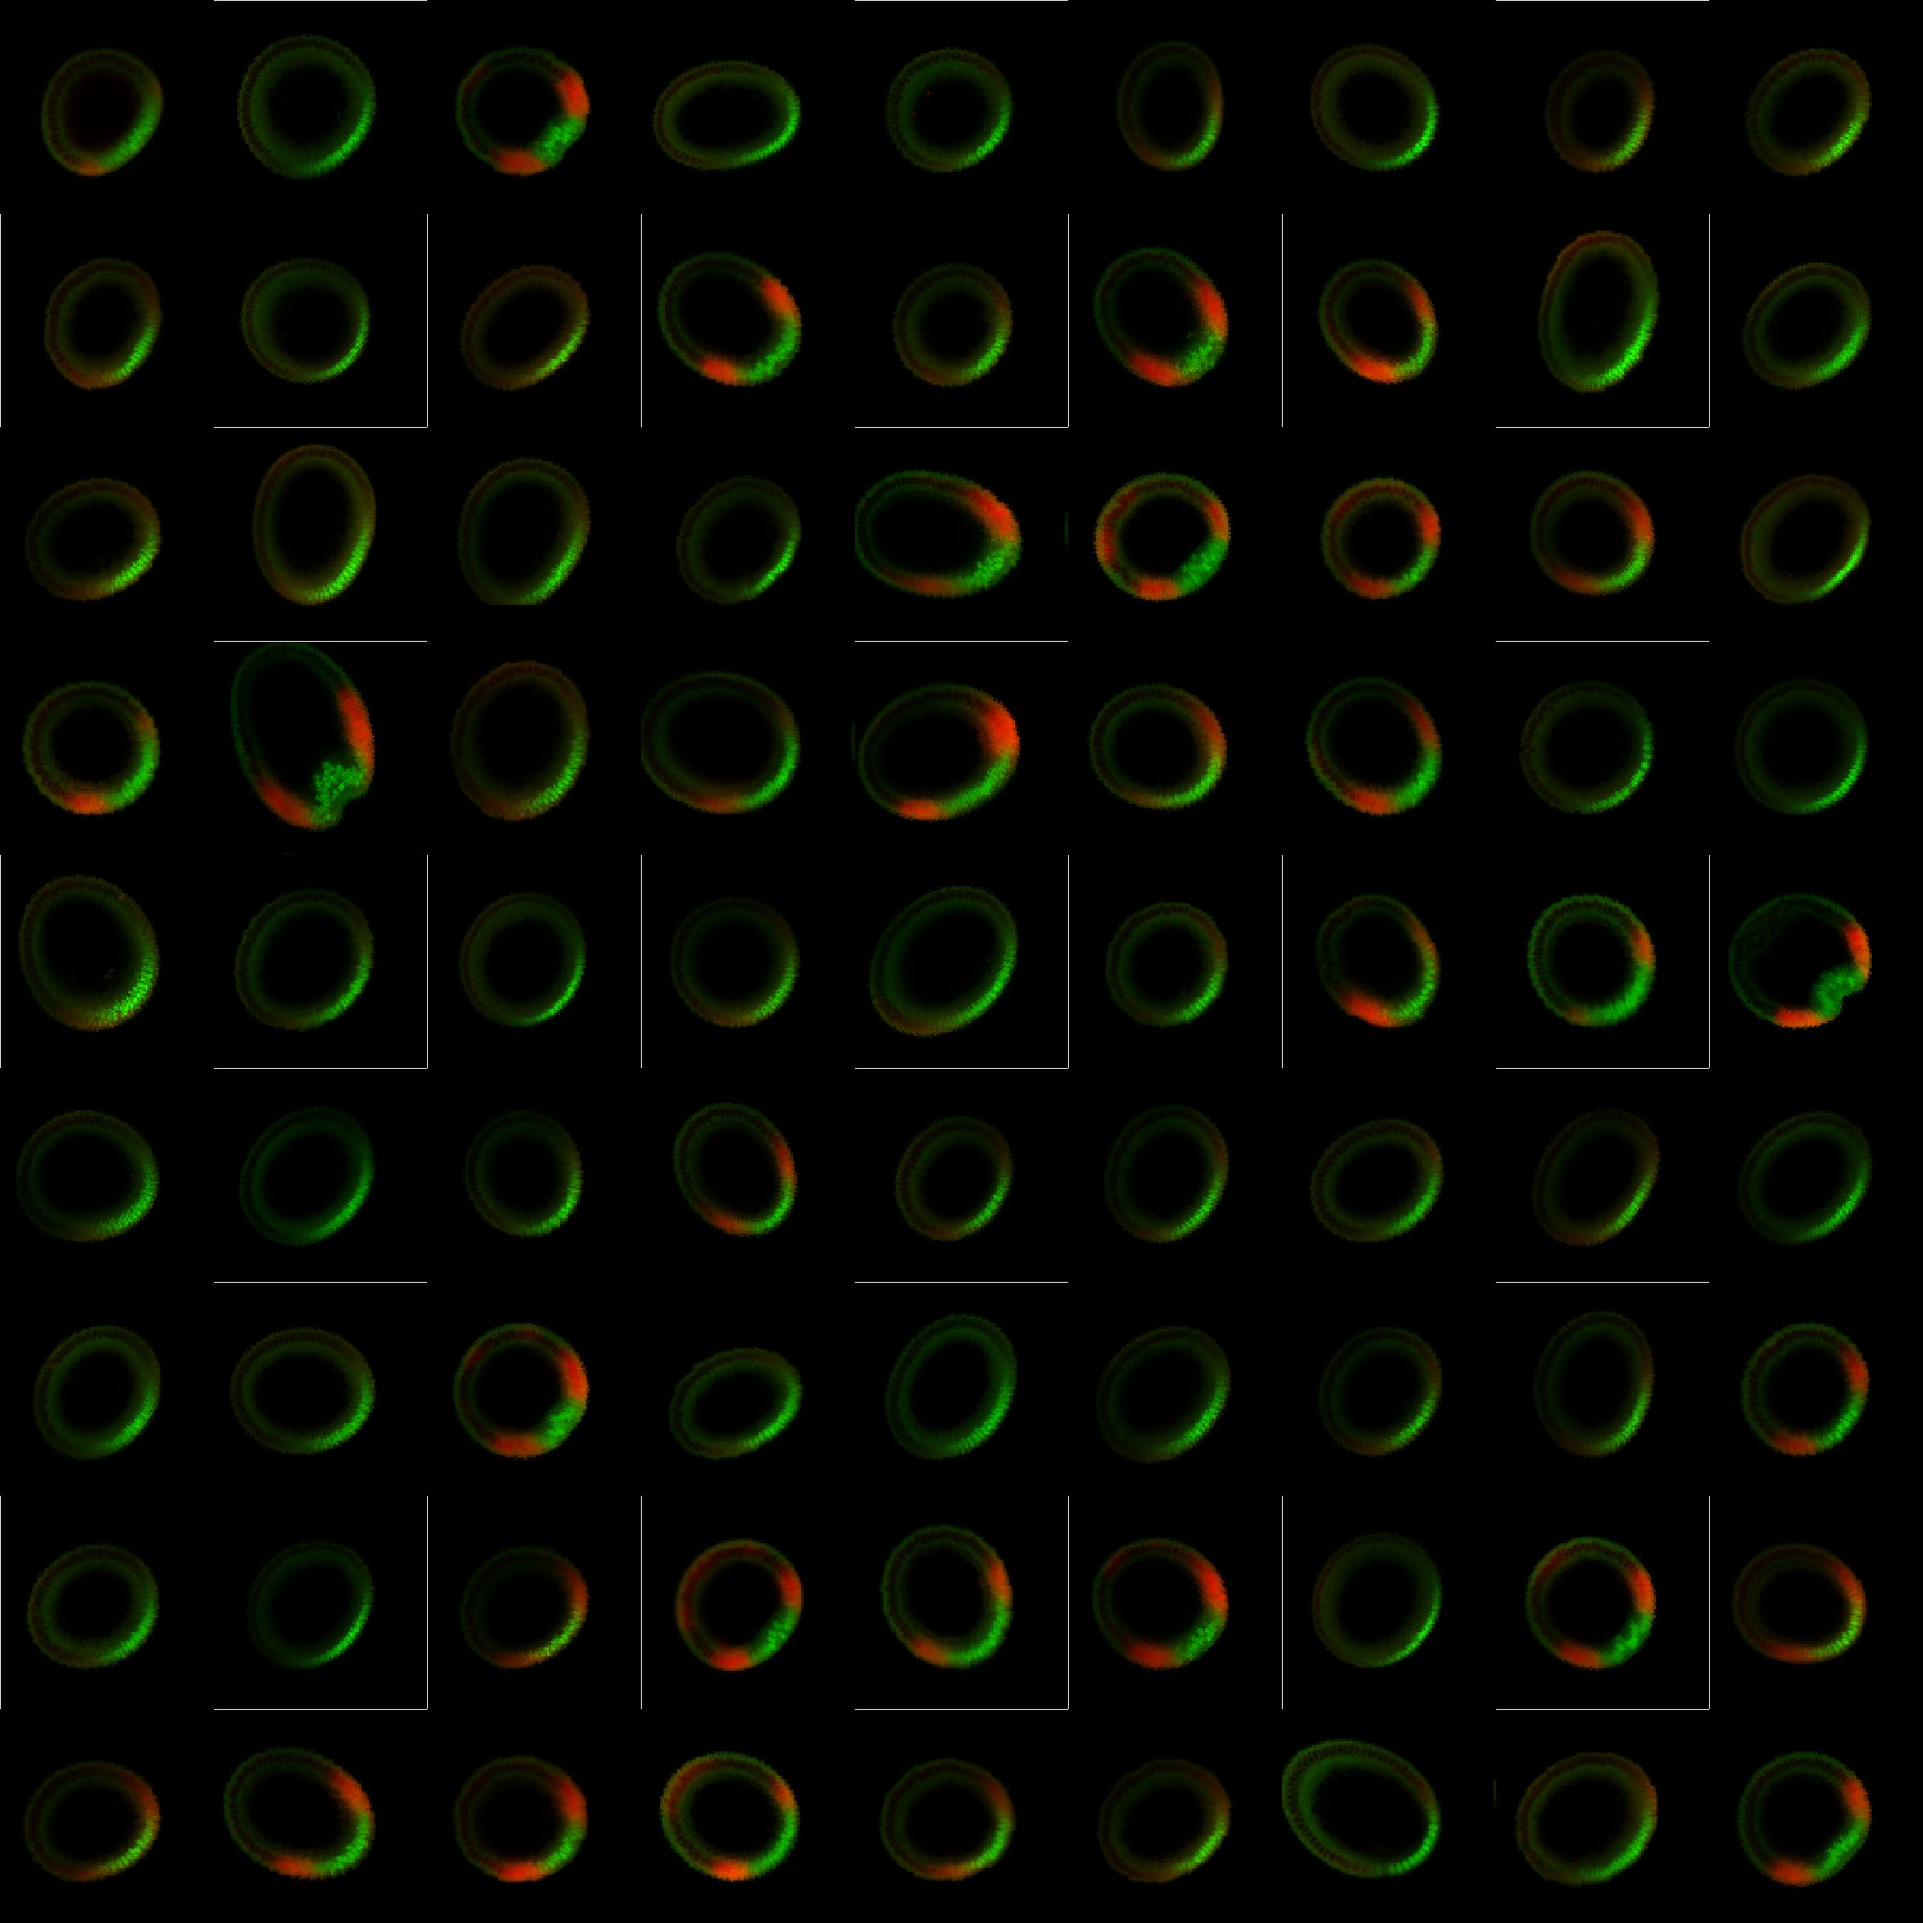
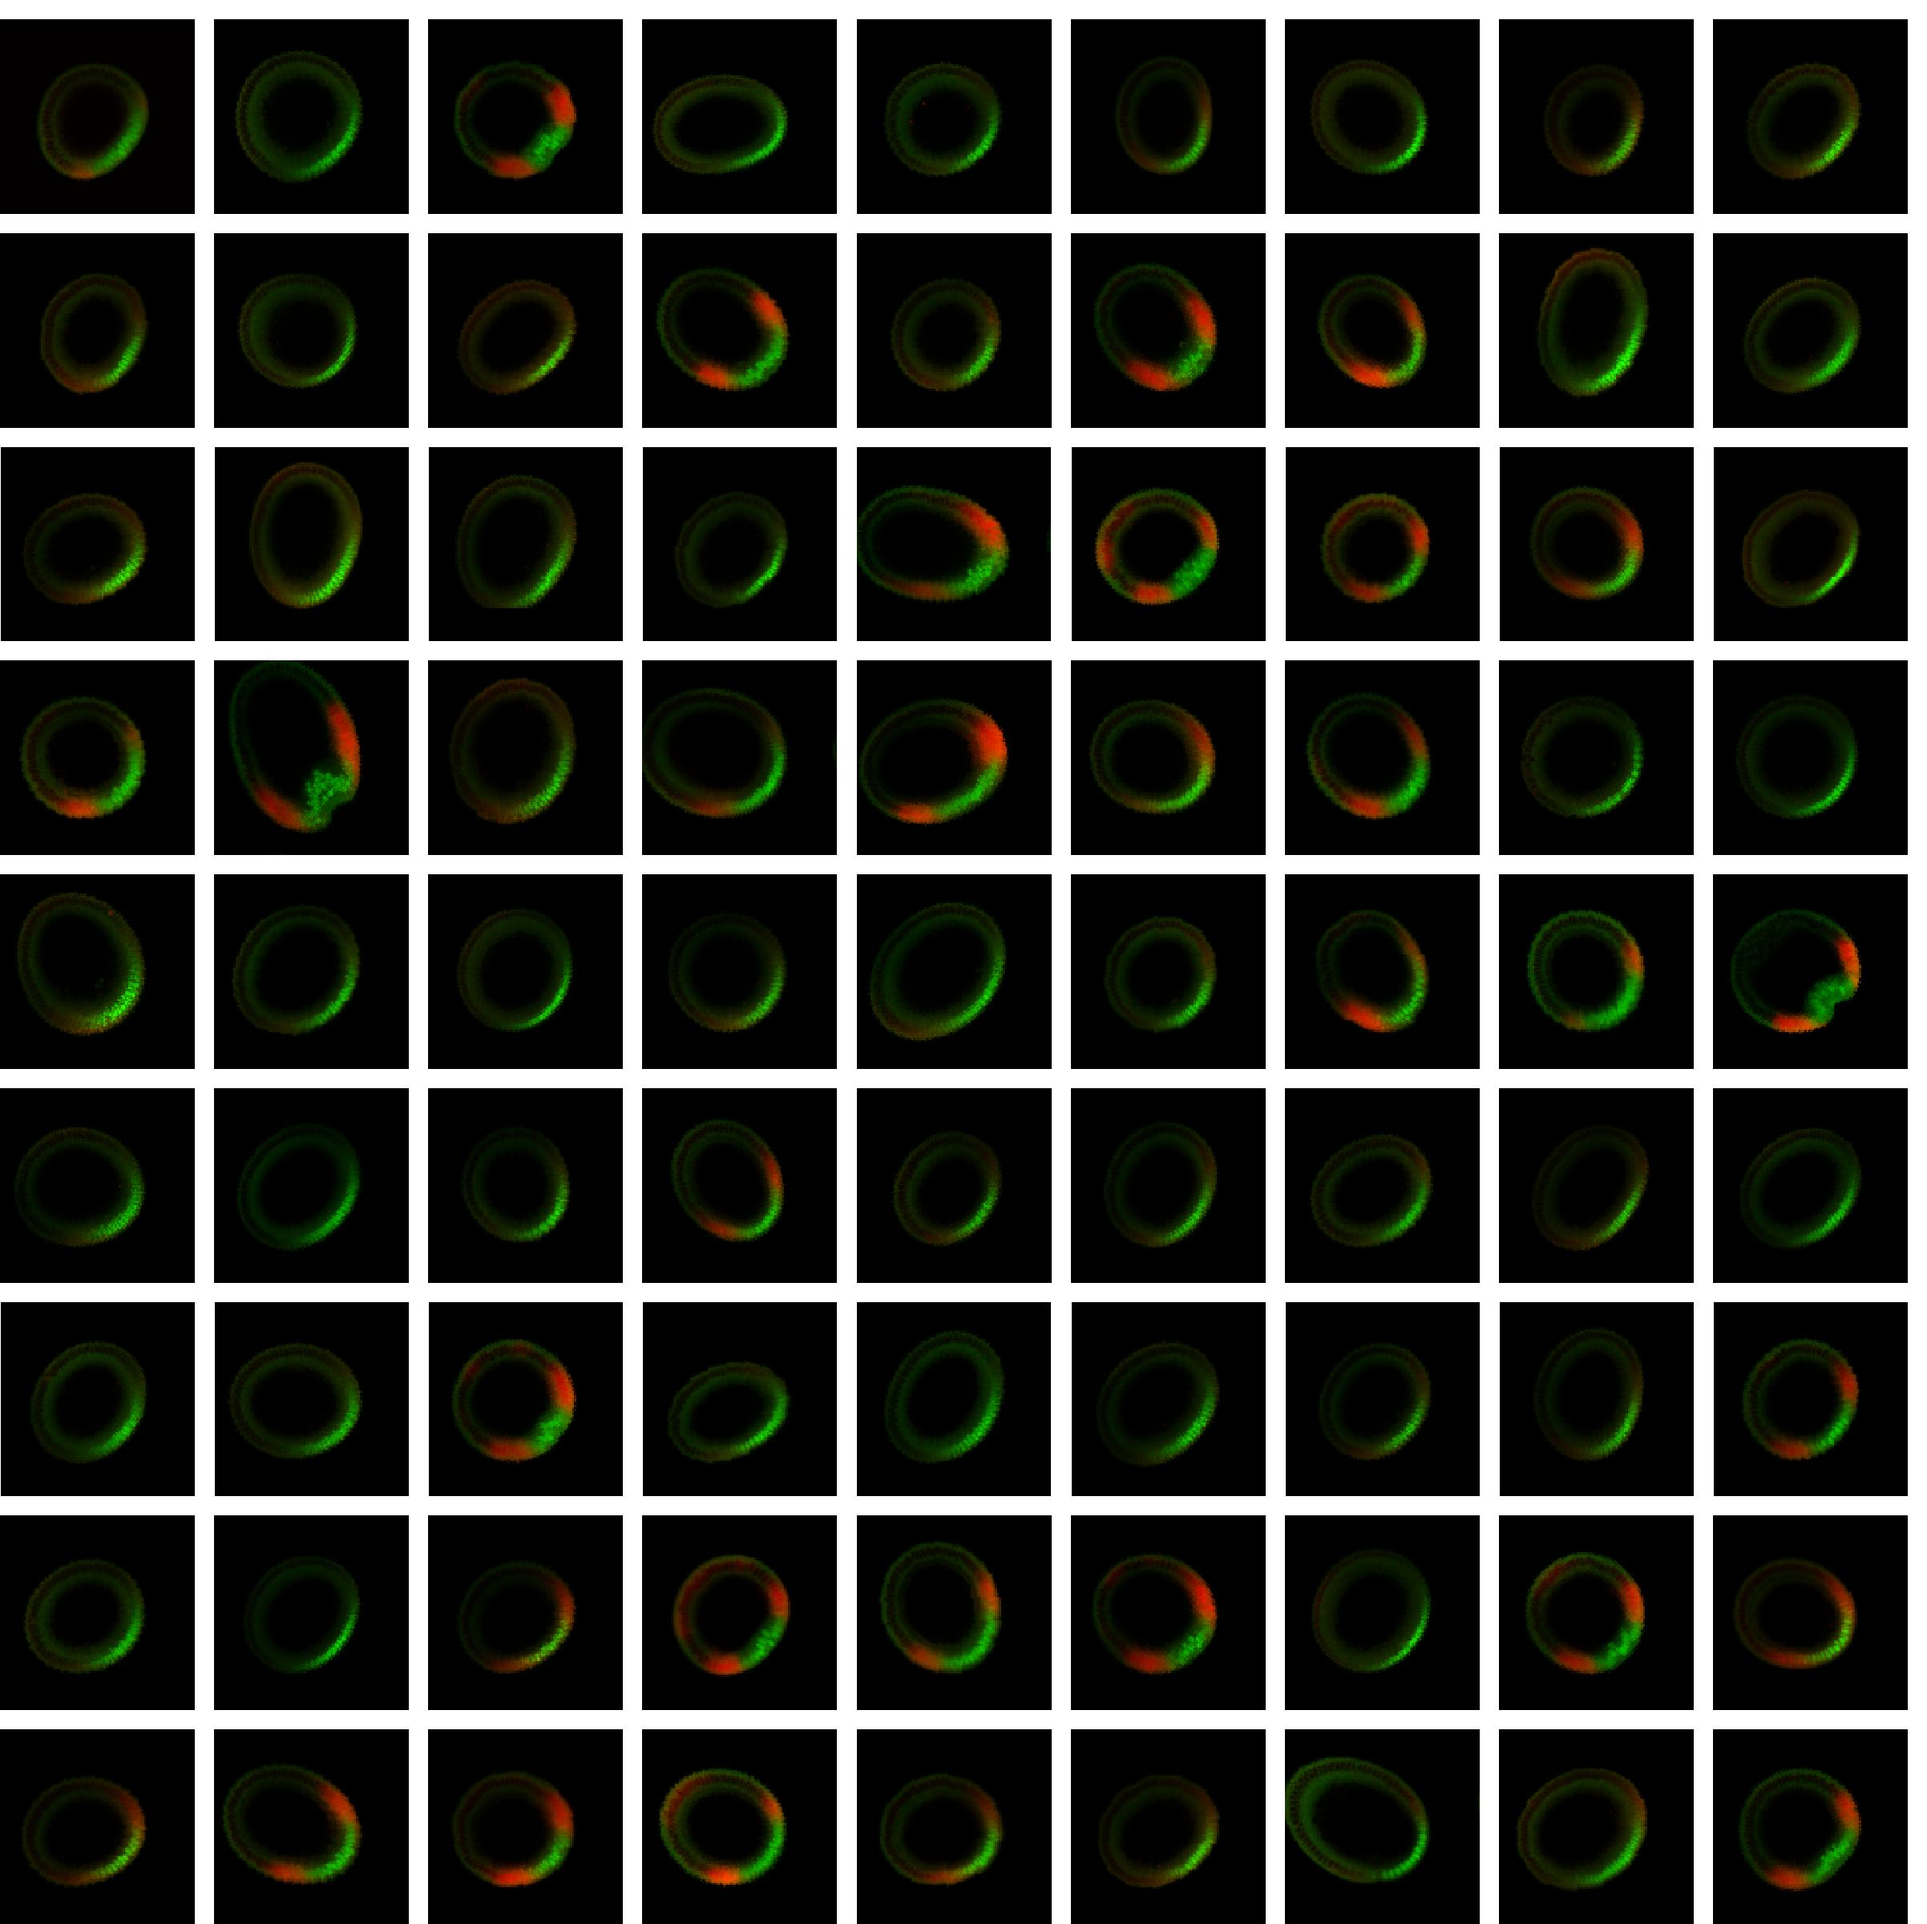
updated paper figures; added toy example

Changed region(s): [[0.0, 0.0, 1.0, 1.0], [0.8125, 0.9688, 0.8438, 1.0], [0.0312, 0.9688, 0.0625, 1.0]]

diff --git a/image_analysis_paper/pnas_draft.tex b/image_analysis_paper/pnas_draft.tex
@@ -877,17 +877,8 @@ where $\overline{X}$ and $\overline{Y}$ are the means of $X_1, \dots, X_m$ and $
 \end{figure}
 
 \begin{figure}
-\begin{subfigure}{0.25\textwidth}
-\includegraphics[width=\textwidth]{fig2a}
+\includegraphics[width=0.5\textwidth]{unregistered_unordered_2d}
 \caption{}
-\label{subfig:images_scrambled}
-\end{subfigure}
-\begin{subfigure}{0.25\textwidth}
-\includegraphics[width=\textwidth]{fig2b}
-\caption{}
-\label{subfig:images_hand_ordered}
-\end{subfigure}
-\caption{{\em Drosophila} data. (a) Dorsal-ventral images of {\em Drosphila} embryos, each fluorescentally stained for Dorsal (green) and dpERK (red). (b) Images from (a), now registered using the location of the Dorsal peak, and temporally ordered using cellularization.} 
 \label{fig:fluorescent_images}
 \end{figure}
 
@@ -908,27 +899,27 @@ where $\overline{X}$ and $\overline{Y}$ are the means of $X_1, \dots, X_m$ and $
 
 \begin{figure*}
 \begin{subfigure}{0.17\textwidth}
-\includegraphics[width=\textwidth]{illustrate_1d}
+\includegraphics[width=\textwidth]{illustrate_toy}
 \caption{}
 \label{subfig:1d_image_example}
 \end{subfigure}
 \begin{subfigure}{0.2\textwidth}
-\includegraphics[width=\textwidth]{unregistered_unordered_1d}
+\includegraphics[width=\textwidth]{unregistered_unordered_toy}
 \caption{}
 \label{subfig:1d_unaligned_unordered}
 \end{subfigure}
 \begin{subfigure}{0.2\textwidth}
-\includegraphics[width=\textwidth]{registered_unordered_1d}
+\includegraphics[width=\textwidth]{registered_unordered_toy}
 \caption{}
 \label{subfig:1d_aligned_unordered}
 \end{subfigure}
 \begin{subfigure}{0.2\textwidth}
-\includegraphics[width=\textwidth]{registered_ordered_1d}
+\includegraphics[width=\textwidth]{registered_ordered_toy}
 \caption{}
 \label{subfig:1d_aligned_ordered}
 \end{subfigure}
 \begin{subfigure}{0.2\textwidth}
-\includegraphics[width=\textwidth]{registered_ordered_vdm_1d}
+\includegraphics[width=\textwidth]{registered_ordered_vdm_toy}
 \caption{}
 \label{subfig:1d_aligned_ordered_vdm}
 \end{subfigure}
@@ -939,25 +930,24 @@ where $\overline{X}$ and $\overline{Y}$ are the means of $X_1, \dots, X_m$ and $
 \begin{figure*}
 \begin{minipage}{0.6\textwidth}
 \begin{subfigure}{\textwidth}
-%\includegraphics[width=\textwidth]{registered_ordered_vdm_2d}
-\includegraphics[width=\textwidth]{test}
+\includegraphics[width=\textwidth]{registered_ordered_vdm_2d}
 \caption{}
 \label{subfig:images_vdm}
 \end{subfigure}
 \end{minipage}
-\begin{minipage}{0.4\textwidth}
+\begin{minipage}{0.3\textwidth}
 \begin{subfigure}{\textwidth}
-\includegraphics[width=\textwidth]{rank_corr_vdm}
+\includegraphics[width=\textwidth]{registered_ordered_vdm_1d}
 \caption{}
 \label{subfig:rank_corr}
 \end{subfigure}
 \begin{subfigure}{\textwidth}
-\includegraphics[width=\textwidth]{bootstrap_rank_corr_color}
+\includegraphics[width=\textwidth]{registered_ordered_hand}
 \caption{}
-\label{subfig:bootstrap}
+%\label{subfig:bootstrap}
 \end{subfigure}
 \end{minipage}
-\caption{(a) The images in Figure~\ref{fig:fluorescent_images}, aligned and temporally ordered using vector diffusion maps. The images are sorted according to the value of the first non-trivial VDM component, $\psi_{1, 4}$. (b) The rank correlation between the ordering of the images in (a) using vector diffusion maps, and the ordering of in the images in Figure~\ref{subfig:images_hand_ordered}, obtained using cellularization. (c) The rank correlation coefficient between the VDM ordering and the cellularization ordering as a function of the number of data points. }
+%\caption{(a) The images in Figure~\ref{fig:fluorescent_images}, aligned and temporally ordered using vector diffusion maps. The images are sorted according to the value of the first non-trivial VDM component, $\psi_{1, 4}$. (b) The rank correlation between the ordering of the images in (a) using vector diffusion maps, and the ordering of in the images in Figure~\ref{subfig:images_hand_ordered}, obtained using cellularization. (c) The rank correlation coefficient between the VDM ordering and the cellularization ordering as a function of the number of data points. }
 \end{figure*}
 
 %\begin{figure*}

diff --git a/image_analysis_paper/make_figures_large_dataset_color.m b/image_analysis_paper/make_figures_large_dataset_color.m
@@ -79,7 +79,7 @@ set(gcf, 'paperposition',[0 0 8 8])
 for i=1:m
     im1 = image_set(:,:,:,i);
     %subplot(subplot_dim1, subplot_dim2, i);
-    subplot('position', [X(i)-1/subplot_dim1 Y(i)-1/subplot_dim2 1/subplot_dim1 1/subplot_dim2])
+    subplot('position', [X(i)-1/subplot_dim1 Y(i)-1/subplot_dim2 1/subplot_dim1-0.01 1/subplot_dim2-0.01])
     imshow(im1);
     
 end
@@ -97,7 +97,7 @@ for i=1:m
     im1 = image_set_aligned(:,:,:,i);
     
     %subplot(subplot_dim1, subplot_dim2, i);
-    subplot('position', [X(i)-1/subplot_dim1 Y(i)-1/subplot_dim2 1/subplot_dim1 1/subplot_dim2])
+    subplot('position', [X(i)-1/subplot_dim1 Y(i)-1/subplot_dim2 1/subplot_dim1-0.01 1/subplot_dim2-0.01])
     imshow(im1);
     
 end
@@ -168,7 +168,7 @@ figure;
 set(gcf, 'paperposition', [0 0 8 8])
 for i=1:m
     %subplot(subplot_dim1, subplot_dim2, i);
-    subplot('position', [X(i)-1/subplot_dim1 Y(i)-1/subplot_dim2 1/subplot_dim1 1/subplot_dim2])
+    subplot('position', [X(i)-1/subplot_dim1 Y(i)-1/subplot_dim2 1/subplot_dim1-0.01 1/subplot_dim2-0.01])
     imshow(image_set_aligned(:,:,:,I(i)));
 end
 print(sprintf('%s/registered_ordered_vdm_2d', im_save_dir), fmt, res);

diff --git a/image_analysis_paper/make_figures_large_dataset_1d_color.m b/image_analysis_paper/make_figures_large_dataset_1d_color.m
@@ -59,6 +59,20 @@ for i=2:m
 end
 
 %%
+
+[~, I] = sort(mem_lengths);
+
+figure;
+set(gcf, 'paperposition',[0 0 8 8])
+imshow(uint8(dpERK(I, :, :)))
+xlabel('position (registered)', 'fontsize', fontsize)
+ylabel('data sample (ordered)', 'fontsize', fontsize)
+set(gca, 'xtick', [])
+set(gca, 'ytick', [])
+set(gca,'position',[0.1 0.1 0.9 0.9],'units','normalized')
+print(sprintf('%s/registered_ordered_hand', im_save_dir), fmt, res);
+return
+
 figure;
 set(gcf, 'paperposition',[0 0 8 8])
 imshow(uint8(dpERK_unaligned))
